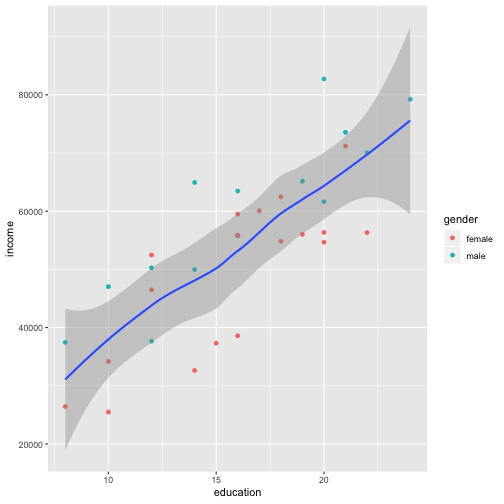
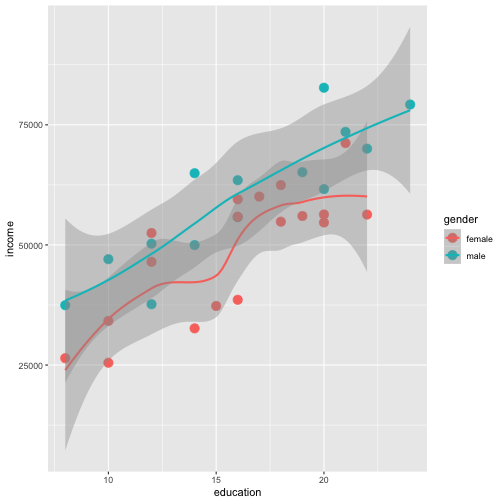
Updated Notes 03
Bigger point size, fixed a couple typos

diff --git a/notes/03-plotting-with-ggplot2.html b/notes/03-plotting-with-ggplot2.html
@@ -4,7 +4,7 @@
     <title>Plotting with ggplot2</title>
     <meta charset="utf-8">
     <meta name="author" content="Andrew Zieffler“" />
-    <meta name="date" content="2018-07-06" />
+    <meta name="date" content="2018-09-13" />
     <link href="css/remark-css/default.css" rel="stylesheet" />
     <link href="css/remark-css/metropolis.css" rel="stylesheet" />
     <link href="css/remark-css/metropolis-fonts.css" rel="stylesheet" />
@@ -17,7 +17,7 @@ class: center, middle, inverse, title-slide
 # Plotting with ggplot2
 ## EPsy 8251
 ### Andrew Zieffler“
-### 2018-07-06
+### 2018-09-13
 
 ---
 
@@ -35,7 +35,7 @@ library(ggplot2)
 library(readr)
 
 # Import and view the city data 
-city = read_csv("~/Dropbox/epsy-8251/data/riverside.csv")
+city = read_csv("../data/riverside.csv")
 city
 ```
 
@@ -187,7 +187,8 @@ ggplot(data = city, aes(x = education, y = income, color = gender)) +
   geom_smooth()
 ```
 
-&lt;img src="03-plotting-with-ggplot2_files/figure-html/unnamed-chunk-10-1.png" width="90%" /&gt;
+&lt;img src="03-plotting-with-ggplot2_files/figure-html/unnamed-chunk-11-1.png" width="90%" /&gt;
+
 ]]
 
 
@@ -199,7 +200,7 @@ ggplot(data = city, aes(x = education, y = income)) +
   geom_smooth()
 ```
 
-&lt;img src="03-plotting-with-ggplot2_files/figure-html/unnamed-chunk-11-1.png" width="90%" /&gt;
+&lt;img src="03-plotting-with-ggplot2_files/figure-html/unnamed-chunk-13-1.png" width="90%" /&gt;
 ]]
 
 
@@ -219,7 +220,7 @@ ggplot(data = city, aes(x = education, y = income)) +
 ]]
 
 .pull-right[
-&lt;img src="03-plotting-with-ggplot2_files/figure-html/unnamed-chunk-13-1.png" width="90%" /&gt;
+&lt;img src="03-plotting-with-ggplot2_files/figure-html/unnamed-chunk-15-1.png" width="90%" /&gt;
 ]
 ---
 
@@ -241,12 +242,7 @@ ggplot(data = city, aes(x = education, y = income, color = gender)) +
 ]]
 
 .pull-right[
-
-```
-## Warning: Ignoring unknown parameters: szie
-```
-
-&lt;img src="03-plotting-with-ggplot2_files/figure-html/unnamed-chunk-15-1.png" width="90%" /&gt;
+&lt;img src="03-plotting-with-ggplot2_files/figure-html/unnamed-chunk-17-1.png" width="90%" /&gt;
 ]
 
 ---
@@ -256,7 +252,7 @@ ggplot(data = city, aes(x = education, y = income, color = gender)) +
 - Write the syntax to create this scatterplot.
 - How would we color the points by political party?
 
-&lt;img src="03-plotting-with-ggplot2_files/figure-html/unnamed-chunk-16-1.png" width="50%" /&gt;
+&lt;img src="03-plotting-with-ggplot2_files/figure-html/unnamed-chunk-18-1.png" width="50%" /&gt;
 
 ---
 
@@ -264,7 +260,7 @@ ggplot(data = city, aes(x = education, y = income, color = gender)) +
 
 Two other useful aesthetics for points are `shape=` and `size=` for plotting the shapes and sizes of points, respectively. 
 
-.pull-left[smallish[
+.pull-left[.smallish[
 
 ```r
 ggplot(data = city, aes(x = education, y = income)) +
@@ -273,7 +269,7 @@ ggplot(data = city, aes(x = education, y = income)) +
 ]]
 
 .pull-right[
-&lt;img src="03-plotting-with-ggplot2_files/figure-html/unnamed-chunk-18-1.png" width="40%" /&gt;
+![](03-plotting-with-ggplot2_files/figure-html/unnamed-chunk-20-1.png)&lt;!-- --&gt;
 ]
 
 Notice when we use non-positional aesthetic mappings (e.g., color, shape) a legend will be automatically added to our plot for each aesthetic mapping.
@@ -298,7 +294,7 @@ ggplot(data = city, aes(x = education, y = income)) +
 ]
 
 .pull-right[
-![](03-plotting-with-ggplot2_files/figure-html/unnamed-chunk-20-1.png)&lt;!-- --&gt;
+![](03-plotting-with-ggplot2_files/figure-html/unnamed-chunk-22-1.png)&lt;!-- --&gt;
 ]
 ---
 
@@ -318,7 +314,7 @@ ggplot(data = city, aes(x = education, y = income)) +
 ]
 
 .pull-right[
-&lt;img src="03-plotting-with-ggplot2_files/figure-html/unnamed-chunk-22-1.png" width="90%" /&gt;
+&lt;img src="03-plotting-with-ggplot2_files/figure-html/unnamed-chunk-24-1.png" width="90%" /&gt;
 ]
 
 ---
@@ -340,7 +336,7 @@ ggplot(data = city, aes(x = education, y = income)) +
 ]
 
 .pull-right[
-![](03-plotting-with-ggplot2_files/figure-html/unnamed-chunk-24-1.png)&lt;!-- --&gt;
+![](03-plotting-with-ggplot2_files/figure-html/unnamed-chunk-26-1.png)&lt;!-- --&gt;
 ]
 
 ---
@@ -364,7 +360,7 @@ ggplot(data = city, aes(x = education, y = income)) +
 ]
 
 .pull-right[
-![](03-plotting-with-ggplot2_files/figure-html/unnamed-chunk-26-1.png)&lt;!-- --&gt;
+![](03-plotting-with-ggplot2_files/figure-html/unnamed-chunk-28-1.png)&lt;!-- --&gt;
 ]
 
 ---
@@ -407,7 +403,7 @@ Here, `scale_color_manual()` allows you to manually set the attributes associate
 ]
 
 .pull-right[
-![](03-plotting-with-ggplot2_files/figure-html/unnamed-chunk-29-1.png)&lt;!-- --&gt;
+![](03-plotting-with-ggplot2_files/figure-html/unnamed-chunk-31-1.png)&lt;!-- --&gt;
 ]
 
 ---
@@ -434,7 +430,7 @@ The `name=` argument changes the title of the legend, and the `labels=` argument
 ]
 
 .pull-right[
-![](03-plotting-with-ggplot2_files/figure-html/unnamed-chunk-31-1.png)&lt;!-- --&gt;
+![](03-plotting-with-ggplot2_files/figure-html/unnamed-chunk-33-1.png)&lt;!-- --&gt;
 ]
 
 ---
@@ -526,7 +522,7 @@ ggplot(data = city, aes(x = education, y = income)) +
 ]
 
 .pull-right[
-![](03-plotting-with-ggplot2_files/figure-html/unnamed-chunk-36-1.png)&lt;!-- --&gt;
+![](03-plotting-with-ggplot2_files/figure-html/unnamed-chunk-38-1.png)&lt;!-- --&gt;
 ]
 
 ---
@@ -571,7 +567,7 @@ ggplot(data = city, aes(x = education, y = income)) +
 ]
 
 .pull-right[
-![](03-plotting-with-ggplot2_files/figure-html/unnamed-chunk-39-1.png)&lt;!-- --&gt;
+![](03-plotting-with-ggplot2_files/figure-html/unnamed-chunk-41-1.png)&lt;!-- --&gt;
 ]
 
 ---
@@ -594,7 +590,7 @@ The `theme_bw()` layer is a "built-in" theme that uses a black-and-white backgro
 ]
 
 .pull-right[
-![](03-plotting-with-ggplot2_files/figure-html/unnamed-chunk-41-1.png)&lt;!-- --&gt;
+![](03-plotting-with-ggplot2_files/figure-html/unnamed-chunk-43-1.png)&lt;!-- --&gt;
 ]
 
 ---
@@ -619,7 +615,7 @@ ggplot(data = city, aes(x = education, y = income)) +
 ]
 
 .pull-right[
-![](03-plotting-with-ggplot2_files/figure-html/unnamed-chunk-43-1.png)&lt;!-- --&gt;
+![](03-plotting-with-ggplot2_files/figure-html/unnamed-chunk-45-1.png)&lt;!-- --&gt;
 ]
 
 ---
@@ -643,7 +639,7 @@ ggplot(data = city, aes(x = education, y = income)) +
 ]
 
 .pull-right[
-![](03-plotting-with-ggplot2_files/figure-html/unnamed-chunk-45-1.png)&lt;!-- --&gt;
+![](03-plotting-with-ggplot2_files/figure-html/unnamed-chunk-47-1.png)&lt;!-- --&gt;
 ]
 
 ---
@@ -672,7 +668,7 @@ The `labels=dollar` option is a built-in formatter from the **scales** package t
 ]
 
 .pull-right[
-![](03-plotting-with-ggplot2_files/figure-html/unnamed-chunk-47-1.png)&lt;!-- --&gt;
+![](03-plotting-with-ggplot2_files/figure-html/unnamed-chunk-49-1.png)&lt;!-- --&gt;
 ]
 
 ---
@@ -713,7 +709,7 @@ ggplot(data = city, aes(x = education, y = income)) +
 
 *Figure 1.* Relationship between annual income (in U.S. dollars) and years of education for n=32 employees of the City of Riverside. This relationship is shown for both males and females.
 
-![](03-plotting-with-ggplot2_files/figure-html/unnamed-chunk-50-1.png)&lt;!-- --&gt;
+![](03-plotting-with-ggplot2_files/figure-html/unnamed-chunk-52-1.png)&lt;!-- --&gt;
 
 
 `#protip:` It is easier to use a word-processor (e.g., MS Word) to add the figure title and caption than to try and get it formatted correctly using R. 
@@ -740,7 +736,7 @@ city %&gt;%
 
 *Figure 2.* Relationship between annual income (in U.S. dollars) and years of education for n=18 female employees of the City of Riverside.
 
-&lt;img src="03-plotting-with-ggplot2_files/figure-html/unnamed-chunk-52-1.png" width="70%" /&gt;
+&lt;img src="03-plotting-with-ggplot2_files/figure-html/unnamed-chunk-54-1.png" width="70%" /&gt;
 ]
 
 ---
@@ -770,12 +766,23 @@ if (window.HTMLWidgets) slideshow.on('afterShowSlide', function (slide) {
   d.head.appendChild(s);
 })();</script>
 
-<script type="text/x-mathjax-config">
-MathJax.Hub.Config({
-  tex2jax: {
-    skipTags: ['script', 'noscript', 'style', 'textarea', 'pre']
+<script>
+(function() {
+  var i, text, code, codes = document.getElementsByTagName('code');
+  for (i = 0; i < codes.length;) {
+    code = codes[i];
+    if (code.parentNode.tagName !== 'PRE' && code.childElementCount === 0) {
+      text = code.textContent;
+      if (/^\\\((.|\s)+\\\)$/.test(text) || /^\\\[(.|\s)+\\\]$/.test(text) ||
+          /^\$\$(.|\s)+\$\$$/.test(text) ||
+          /^\\begin\{([^}]+)\}(.|\s)+\\end\{[^}]+\}$/.test(text)) {
+        code.outerHTML = code.innerHTML;  // remove <code></code>
+        continue;
+      }
+    }
+    i++;
   }
-});
+})();
 </script>
 <!-- dynamically load mathjax for compatibility with self-contained -->
 <script>
